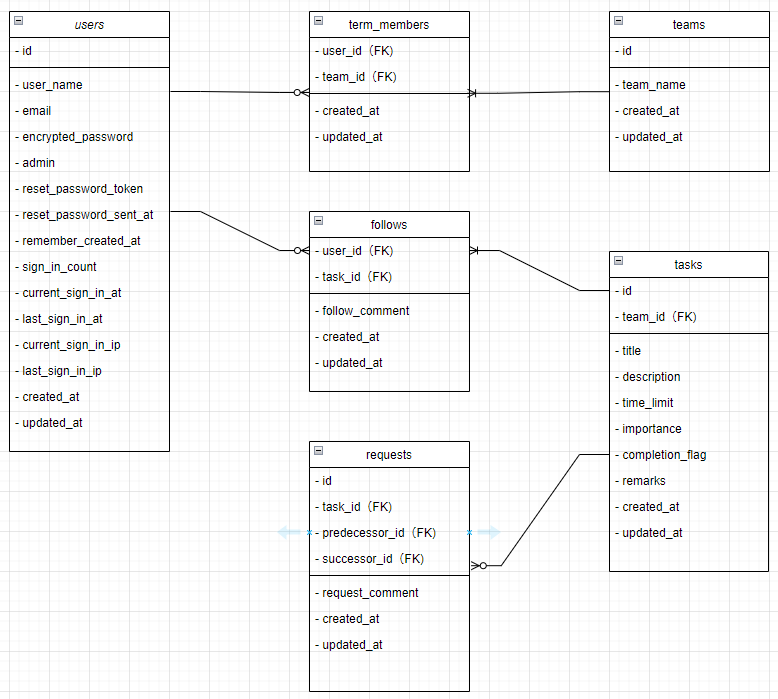
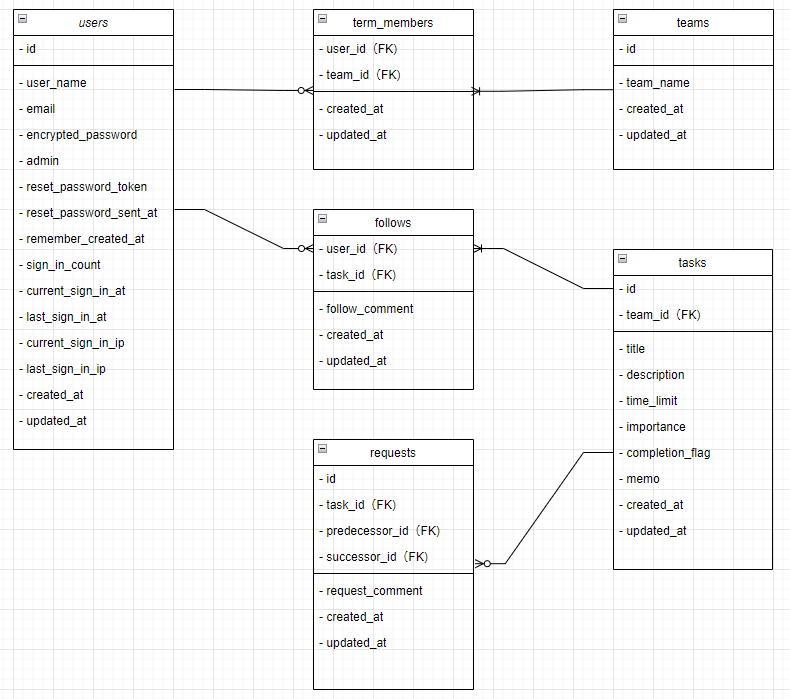
ER図、READMEの更新

diff --git a/README.md b/README.md
@@ -22,7 +22,7 @@ rails s
 ```
 
 # ドキュメント類の共有リンク
-## カタログ設計書、テーブル定義書、ER図、画面遷移図、チェックリストなど
+## カタログ設計書、テーブル定義書、チェックリストなど
 https://docs.google.com/spreadsheets/d/1tD8-UBNSoiBuu0djIhnoNxQgzm4N_QjG4D0yQCCcgs8/edit#gid=492690124
 
 ## ワイヤーフレーム
